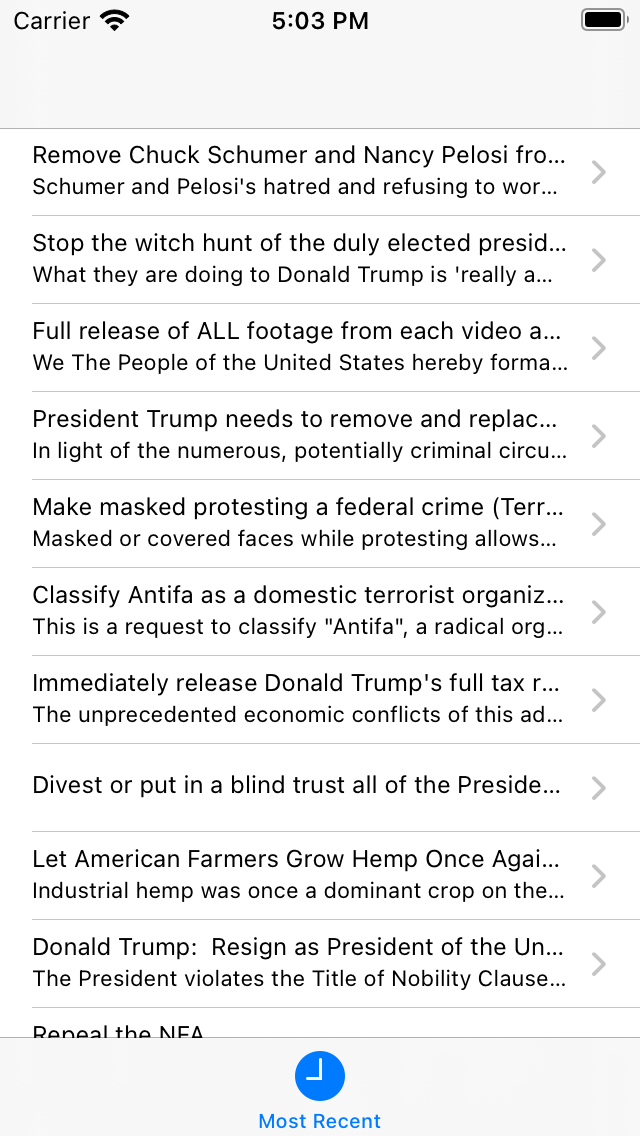
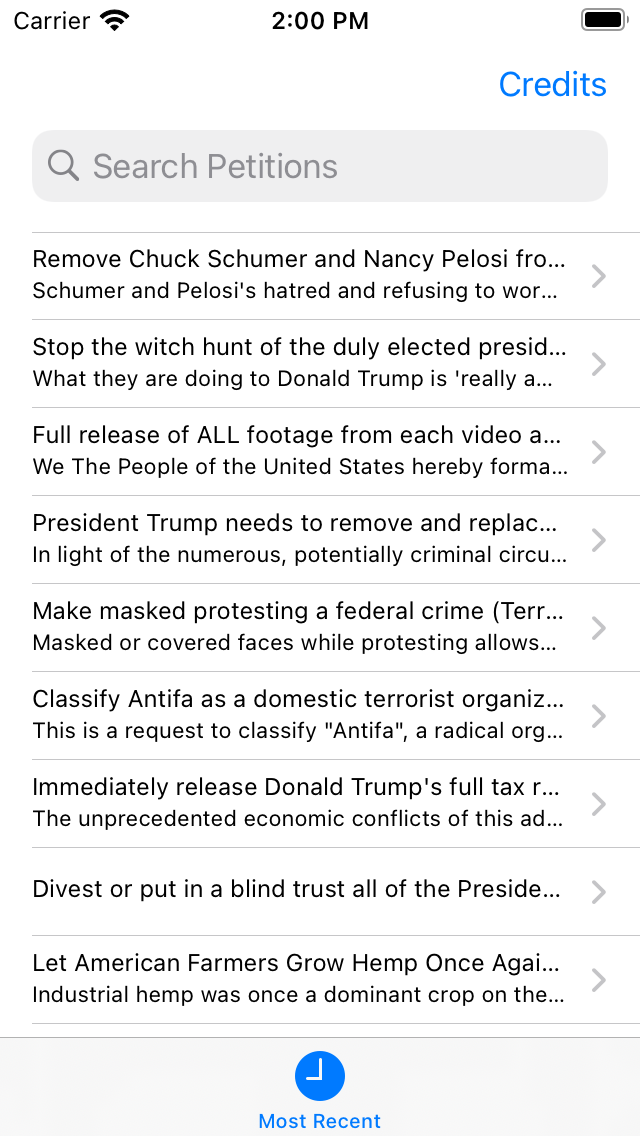
Add WhPetitions sub tasks | Improve screenshots

diff --git a/WhPetitions/WhPetitions/ViewController.swift b/WhPetitions/WhPetitions/ViewController.swift
@@ -10,12 +10,25 @@ import UIKit
 class ViewController: UITableViewController {
     
     var petitions = [Petition]()
+    var filteredPetitions: [Petition] = []
+    let searchController = UISearchController(searchResultsController: nil)
+    var urlString: String = ""
+    var isSearchBarEmpty: Bool {
+        return searchController.searchBar.text?.isEmpty ?? true
+    }
+    var isFiltering: Bool {
+        return searchController.isActive && !isSearchBarEmpty
+    }
+    
     
     override func viewDidLoad() {
         super.viewDidLoad()
-        
-        let urlString: String
-        
+        searchController.searchResultsUpdater = self
+        searchController.obscuresBackgroundDuringPresentation = false
+        searchController.searchBar.placeholder = "Search Petitions"
+        navigationItem.searchController = searchController
+        navigationItem.rightBarButtonItem = UIBarButtonItem(title: "Credits", style: .plain, target: self, action: #selector(shareUrlString))
+        definesPresentationContext = true
         if navigationController?.tabBarItem.tag == 0 { urlString = "https://www.hackingwithswift.com/samples/petitions-1.json"
         } else {
             urlString = "https://www.hackingwithswift.com/samples/petitions-2.json"
@@ -37,6 +50,12 @@ class ViewController: UITableViewController {
         present(ac, animated: true)
     }
     
+    @objc func shareUrlString() {
+        let ac = UIAlertController(title: "Data Source", message: "Data fetched from: \(urlString)", preferredStyle: .alert)
+        ac.addAction(UIAlertAction(title: "Ok", style: .default))
+        present(ac, animated: true)
+    }
+    
     func parse(json: Data) {
         let decoder = JSONDecoder()
         
@@ -47,12 +66,20 @@ class ViewController: UITableViewController {
     }
     
     override func tableView(_ tableView: UITableView, numberOfRowsInSection section: Int) -> Int {
+        if isFiltering {
+            return filteredPetitions.count
+        }
         return petitions.count
     }
     
     override func tableView(_ tableView: UITableView, cellForRowAt indexPath: IndexPath) -> UITableViewCell {
         let cell = tableView.dequeueReusableCell(withIdentifier: "Cell", for: indexPath)
-        let petition = petitions[indexPath.row]
+        let petition: Petition
+        if isFiltering {
+            petition = filteredPetitions[indexPath.row]
+        } else {
+            petition = petitions[indexPath.row]
+        }
         cell.textLabel?.text = petition.title
         cell.detailTextLabel?.text = petition.body
         return cell
@@ -64,5 +91,20 @@ class ViewController: UITableViewController {
         navigationController?.pushViewController(vc, animated: true)
     }
     
+    func filterContentForSearchText(_ searchText: String) {
+        filteredPetitions = petitions.filter { (petition: Petition) -> Bool in
+            return petition.title.lowercased().contains(searchText.lowercased())
+        }
+        
+        tableView.reloadData()
+    }
+    
+}
+
+extension ViewController: UISearchResultsUpdating {
+    func updateSearchResults(for searchController: UISearchController) {
+        let searchBar = searchController.searchBar
+        filterContentForSearchText(searchBar.text!)
+    }
 }
 

diff --git a/WhPetitions/WhPetitions/DetailViewController.swift b/WhPetitions/WhPetitions/DetailViewController.swift
@@ -26,15 +26,18 @@ class DetailViewController: UIViewController {
         
         let html = """
         <!DOCTYPE html>
-        <html>
-        <head>
-        <meta name="viewport" content="width=device-width, initial-scale=1.0">
-        <style>body { font-size: 150%; }</style>
-        <title>Detail</title>
-        </head>
-        <body>
-        \(detailItem.body)
-        </body>
+        <html lang="en">
+            <head>
+            <!-- Required meta tags -->
+                <meta charset="utf-8">
+                <meta name="viewport" content="width=device-width, initial-scale=1">
+            <!-- Bootstrap CSS -->
+            <link href="https://cdn.jsdelivr.net/npm/bootstrap@5.0.1/dist/css/bootstrap.min.css" rel="stylesheet" integrity="sha384-+0n0xVW2eSR5OomGNYDnhzAbDsOXxcvSN1TPprVMTNDbiYZCxYbOOl7+AMvyTG2x" crossorigin="anonymous">
+            </head>
+            <body>
+            <p class="lead">\(detailItem.body)</p>
+            <script src="https://cdn.jsdelivr.net/npm/bootstrap@5.0.1/dist/js/bootstrap.bundle.min.js" integrity="sha384-gtEjrD/SeCtmISkJkNUaaKMoLD0//ElJ19smozuHV6z3Iehds+3Ulb9Bn9Plx0x4" crossorigin="anonymous"></script>
+            </body>
         </html>
         """
         
